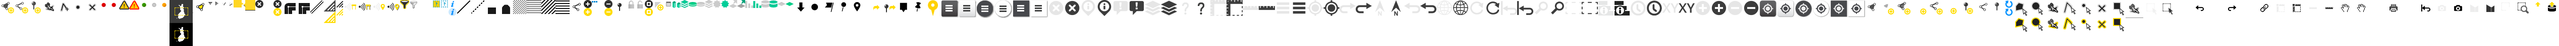
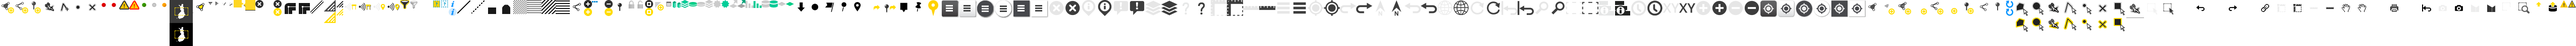
moved projection warning image to to the oskari resources folder

diff --git a/bundles/framework/layerselector2/view/Layer.js b/bundles/framework/layerselector2/view/Layer.js
@@ -20,7 +20,7 @@ Oskari.clazz.define("Oskari.mapframework.bundle.layerselector2.view.Layer",
     }, {
         __template: '<div class="layer"><input type="checkbox" /> ' +
                     '<div class="layer-tools">'+
-                    '   <div class="layer-not-supported backendstatus-maintenance-pending" title="" ></div>' +
+                    '   <div class="layer-not-supported warning-light" title="" ></div>' +
                     '   <div class="layer-backendstatus-icon backendstatus-unknown" title=""></div>' +
                     '   <div class="layer-icon"></div>'+
                     '   <div class="layer-info"></div>'+

diff --git a/bundles/asdi/asdi-projection-change/component/card.js b/bundles/asdi/asdi-projection-change/component/card.js
@@ -10,7 +10,7 @@ function (view, callback) {
                         '<div class="info-row">'+
                             '<p class="card-header"> ${projectionName} </p>'+
                             '<div class="projection-info icon-info"></div>'+
-                            '<div class="projection-warning oskari-hidden" title="${tooltip}"></div>'+
+                            '<div class="projection-warning warning-light oskari-hidden" title="${tooltip}"></div>'+
                         '</div>'+
                         '</div>');
     this.element = null;

diff --git a/resources/icons.css b/resources/icons.css
@@ -1598,3 +1598,19 @@
     background-position: -5044px 0px !important;
 }
 
+.warning-dark {
+    width: 16px;
+    height: 16px;
+    background-image: url('icons.png') !important;
+    background-repeat: no-repeat !important;
+    background-position: -5072px 0px !important;
+}
+
+.warning-light {
+    width: 16px;
+    height: 16px;
+    background-image: url('icons.png') !important;
+    background-repeat: no-repeat !important;
+    background-position: -5088px 0px !important;
+}
+

diff --git a/bundles/asdi/asdi-projection-change/resources/css/style.css b/bundles/asdi/asdi-projection-change/resources/css/style.css
@@ -42,12 +42,8 @@
     cursor: pointer;
 }
 .projection-warning {
-    height:16px;
-    width: 16px;
     cursor: pointer;
-    background-image: url("../images/warning-light.png");
-    background-repeat: no-repeat;
-    background-position: center;}
+}
 .projection-card > .info-row {
     width: inherit;
     display: flex;
